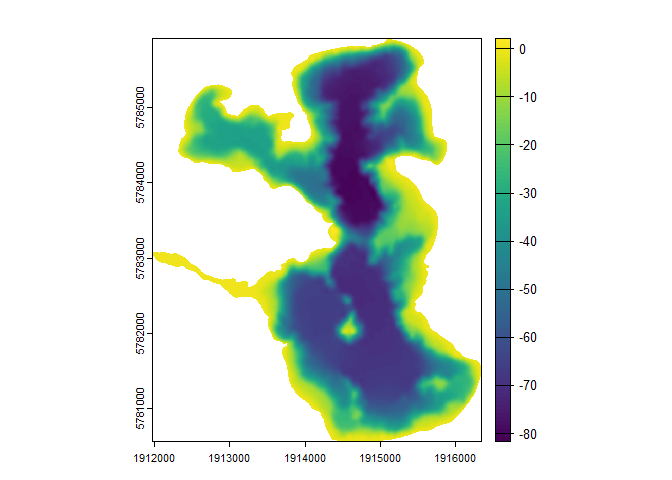
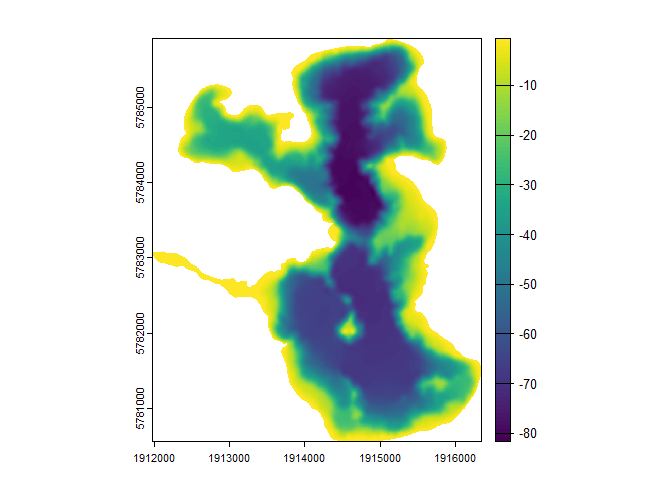
Update README

diff --git a/README.md b/README.md
@@ -16,6 +16,13 @@ generate depth points from bathymetric data, and to rasterise these
 points into a bathymetric raster. The package is designed to work with
 data from the AEME project, but can be used with any bathymetric data.
 
+## Development
+
+This package was developed by [LimnoTrack](http://limnotrack.com/) as
+part of the Lake Ecosystem Restoration New Zealand Modelling Platform
+(LERNZmp) project.
+<a href="http://limnotrack.com/"><img src="man/figures/limnotrack_border.jpg" alt="LimnoTrack website" align="right" height="40"/></a>
+
 ## Installation
 
 You can install the development version of bathytools from GitHub with:
@@ -39,10 +46,11 @@ point_data <- readRDS(system.file("extdata/depth_points.rds",
                                   package = "bathytools"))
 bathy <- rasterise_bathy(shoreline = shoreline, point_data = point_data,
                          crs = 2193)
-#> Generating depth points... [2024-09-17 19:25:24]
-#> Finished! [2024-09-17 19:25:24]
-#> Interpolating to raster... [2024-09-17 19:25:24]
-#> Finished! [2024-09-17 19:25:50]
+#> Generating depth points... [2024-09-18 15:05:17]
+#> Finished! [2024-09-18 15:05:18]
+#> Interpolating to raster... [2024-09-18 15:05:18]
+#> Adjusting depths >= 0
+#> Finished! [2024-09-18 15:05:39]
 ```
 
 <img src="man/figures/README-example-1.png" width="100%" />
